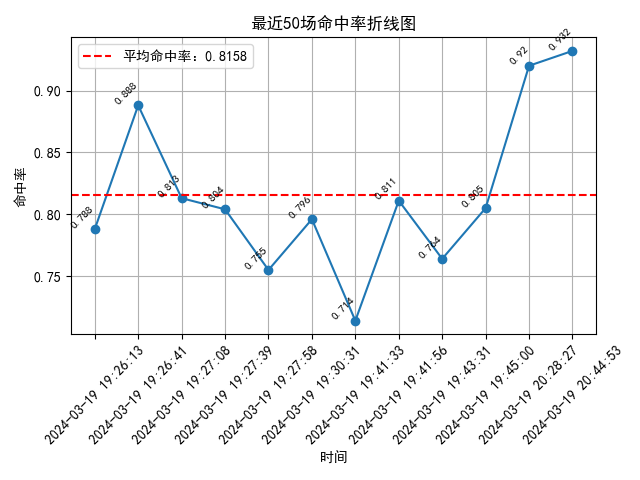
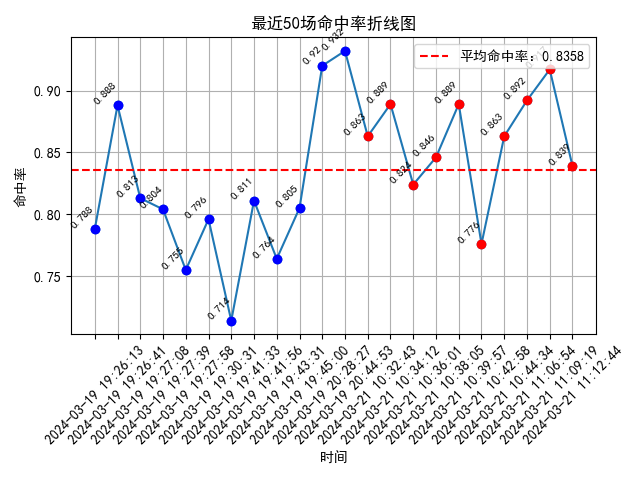
2024-03-21 有长进，但不多

diff --git a/record.py b/record.py
@@ -1,81 +1,10 @@
-import json
+from operate_json import *
+from operate_record import *
 from datetime import datetime
 import matplotlib.pyplot as plt
-
-# 读取 JSON 文件
-def load_json(filename):
-    with open(filename, 'r', encoding='utf-8') as file:
-        data = json.load(file)
-    return data
+import colorama
 
 
-# 保存 JSON 文件
-def save_json(filename, data, is_data_changed):
-    if is_data_changed:
-        while True:
-            user_input = input("数据已更改，是否确认保存？ (y/n): ").strip().lower()
-            if user_input in ['y', 'n']:
-                if user_input == 'y':
-                    with open(filename, 'w', encoding='utf-8') as file:
-                        json.dump(data, file, indent=4, ensure_ascii=False)
-                break
-            else:
-                print("无效的输入，请输入 'y' 或 'n'。")
-    else:
-        with open(filename, 'w', encoding='utf-8') as file:
-            json.dump(data, file, indent=4, ensure_ascii=False)
-
-
-# 增加记录
-def add_record(data, score, rating, react_time, target_number):
-    now = datetime.now()
-    year = str(now.year)
-    month = '{:02d}'.format(now.month)
-    day = '{:02d}'.format(now.day)
-    hour_minute_second = now.strftime('%H:%M:%S')
-
-    if year not in data['records']:
-        data['records'][year] = {}
-    if month not in data['records'][year]:
-        data['records'][year][month] = {}
-    if day not in data['records'][year][month]:
-        data['records'][year][month][day] = {}
-
-    data['records'][year][month][day][hour_minute_second] = {
-        'score': score,
-        'rating': rating,
-        'react_time': react_time,
-        'target_number': target_number
-    }
-
-
-
-
-# 修改记录
-def modify_record(data, date, index, score, rating, react_time, target_number):
-    year, month, day = date.split('-')
-    if year in data['records'] and month in data['records'][year] and day in data['records'][year][month]:
-        records = data['records'][year][month][day]
-        if index in records:
-            records[index] = {
-                'score': score,
-                'rating': rating,
-                'react_time': react_time,
-                'target_number': target_number
-            }
-        else:
-            print("输入的序号无效")
-    else:
-        print("该日期没有记录")
-
-
-# 查找记录
-def find_records(data, date):
-    if date in data['records']:
-        return data['records'][date]
-
-
-# 记录计算
 # 计算平均值
 def calculate_average(data, option, year=None, month=None, day=None):
     if option == 0:
@@ -183,10 +112,12 @@ def main():
 
         try:
             option = int(input("请输入操作选项："))
+            if option < 0 or option > 6:
+                raise ValueError
         except ValueError:
-            print('==================')
+            print(colorama.Fore.RED + '==================')
             print('输入错误，请重新输入！')
-            print('==================')
+            print('==================' + colorama.Fore.RESET)
             continue
 
         if option == 0:
@@ -374,10 +305,17 @@ def main():
             timestamps_last_50 = timestamps[-50:]
             objs_last_50 = objs[-50:]
             average_obj = sum(objs_last_50) / len(objs_last_50)
+            today = datetime.now().date()
 
             # 创建折线图
             plt.rcParams['font.sans-serif'] = ['SimHei']  # 设置字体为SimHei
             plt.plot(timestamps_last_50, objs_last_50, marker='o')
+            for timestamp, obj in zip(timestamps_last_50, objs_last_50):
+                datestamp = datetime.strptime(timestamp.split()[0], '%Y-%m-%d')
+                if datestamp.date() == today:
+                    plt.plot(timestamp, obj, marker='o', color='red')  # 如果是今天的记录，绘制红色点
+                else:
+                    plt.plot(timestamp, obj, marker='o', color='blue')  # 如果是以往的记录，绘制蓝色点
             plt.axhline(average_obj, color='r', linestyle='--', label=f'平均{key_chi}：{average_obj:.4f}')  # 添加平均值水平线
             plt.title(f'最近50场{key_chi}折线图')
             plt.xlabel('时间')
@@ -397,4 +335,5 @@ def main():
 
 
 if __name__ == "__main__":
+    colorama.init()
     main()

diff --git a/operate_record.py b/operate_record.py
@@ -1,0 +1,42 @@
+from datetime import datetime
+
+
+# 增加记录
+def add_record(data, score, rating, react_time, target_number):
+    now = datetime.now()
+    year = str(now.year)
+    month = '{:02d}'.format(now.month)
+    day = '{:02d}'.format(now.day)
+    hour_minute_second = now.strftime('%H:%M:%S')
+
+    if year not in data['records']:
+        data['records'][year] = {}
+    if month not in data['records'][year]:
+        data['records'][year][month] = {}
+    if day not in data['records'][year][month]:
+        data['records'][year][month][day] = {}
+
+    data['records'][year][month][day][hour_minute_second] = {
+        'score': score,
+        'rating': rating,
+        'react_time': react_time,
+        'target_number': target_number
+    }
+
+
+# 修改记录
+def modify_record(data, date, index, score, rating, react_time, target_number):
+    year, month, day = date.split('-')
+    if year in data['records'] and month in data['records'][year] and day in data['records'][year][month]:
+        records = data['records'][year][month][day]
+        if index in records:
+            records[index] = {
+                'score': score,
+                'rating': rating,
+                'react_time': react_time,
+                'target_number': target_number
+            }
+        else:
+            print("输入的序号无效")
+    else:
+        print("该日期没有记录")

diff --git a/operate_json.py b/operate_json.py
@@ -1,0 +1,24 @@
+import json
+
+
+def load_json(filename):
+    with open(filename, 'r', encoding='utf-8') as file:
+        data = json.load(file)
+    return data
+
+
+# 保存 JSON 文件
+def save_json(filename, data, is_data_changed):
+    if is_data_changed:
+        while True:
+            user_input = input("数据已更改，是否确认保存？ (y/n): ").strip().lower()
+            if user_input in ['y', 'n']:
+                if user_input == 'y':
+                    with open(filename, 'w', encoding='utf-8') as file:
+                        json.dump(data, file, indent=4, ensure_ascii=False)
+                break
+            else:
+                print("无效的输入，请输入 'y' 或 'n'。")
+    else:
+        with open(filename, 'w', encoding='utf-8') as file:
+            json.dump(data, file, indent=4, ensure_ascii=False)
